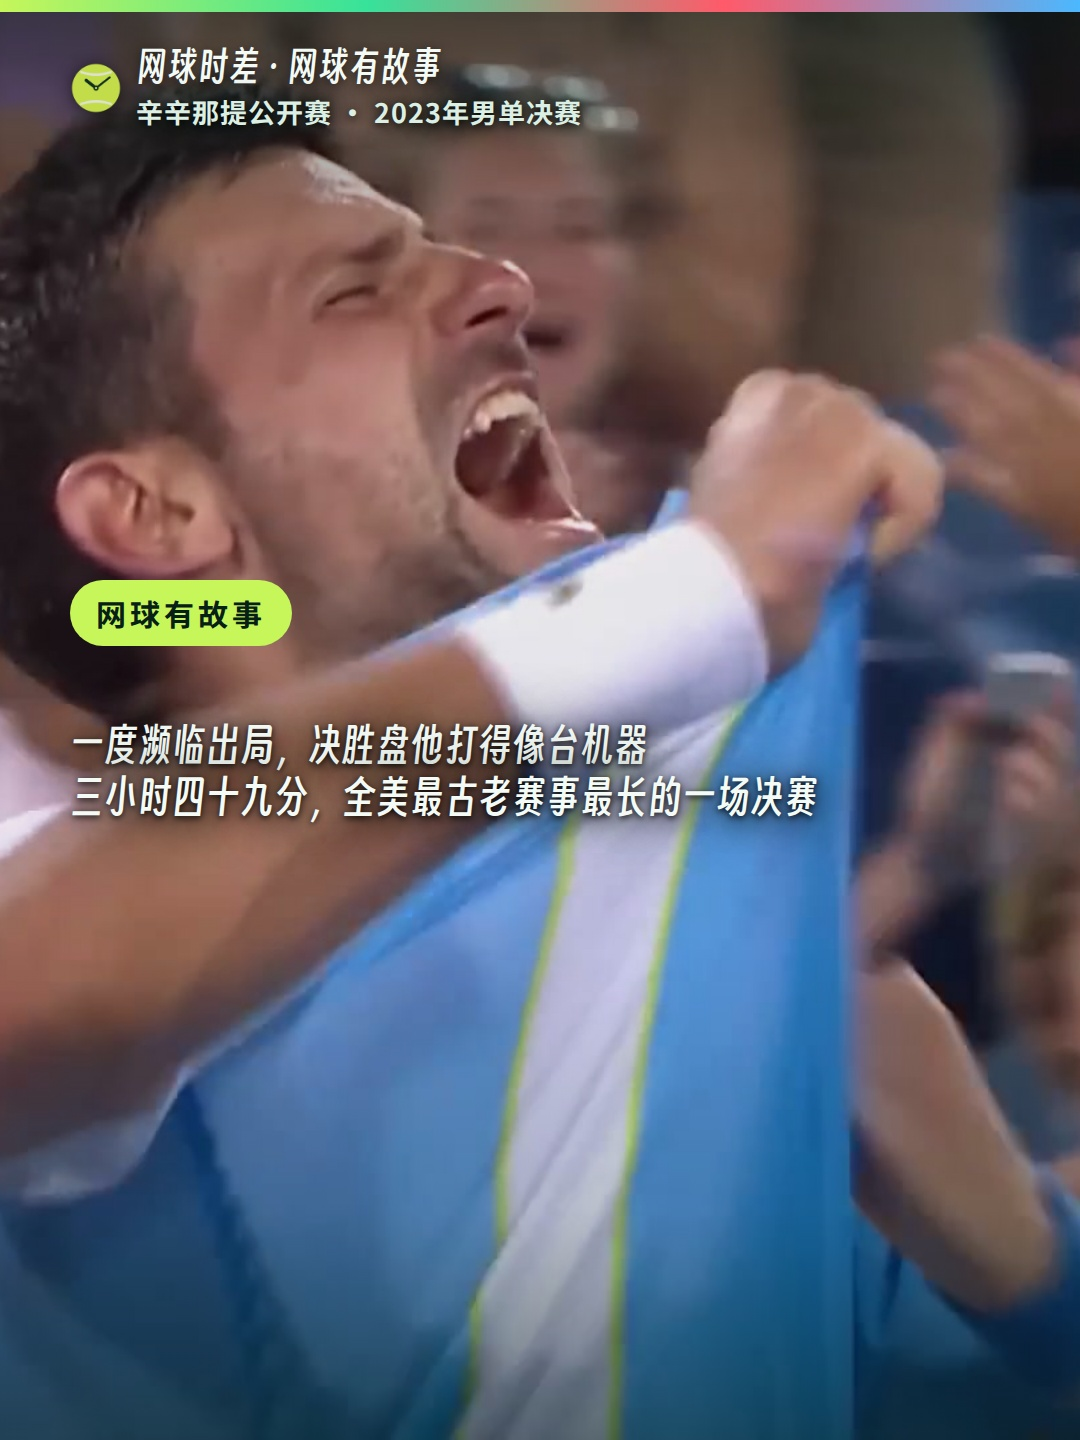
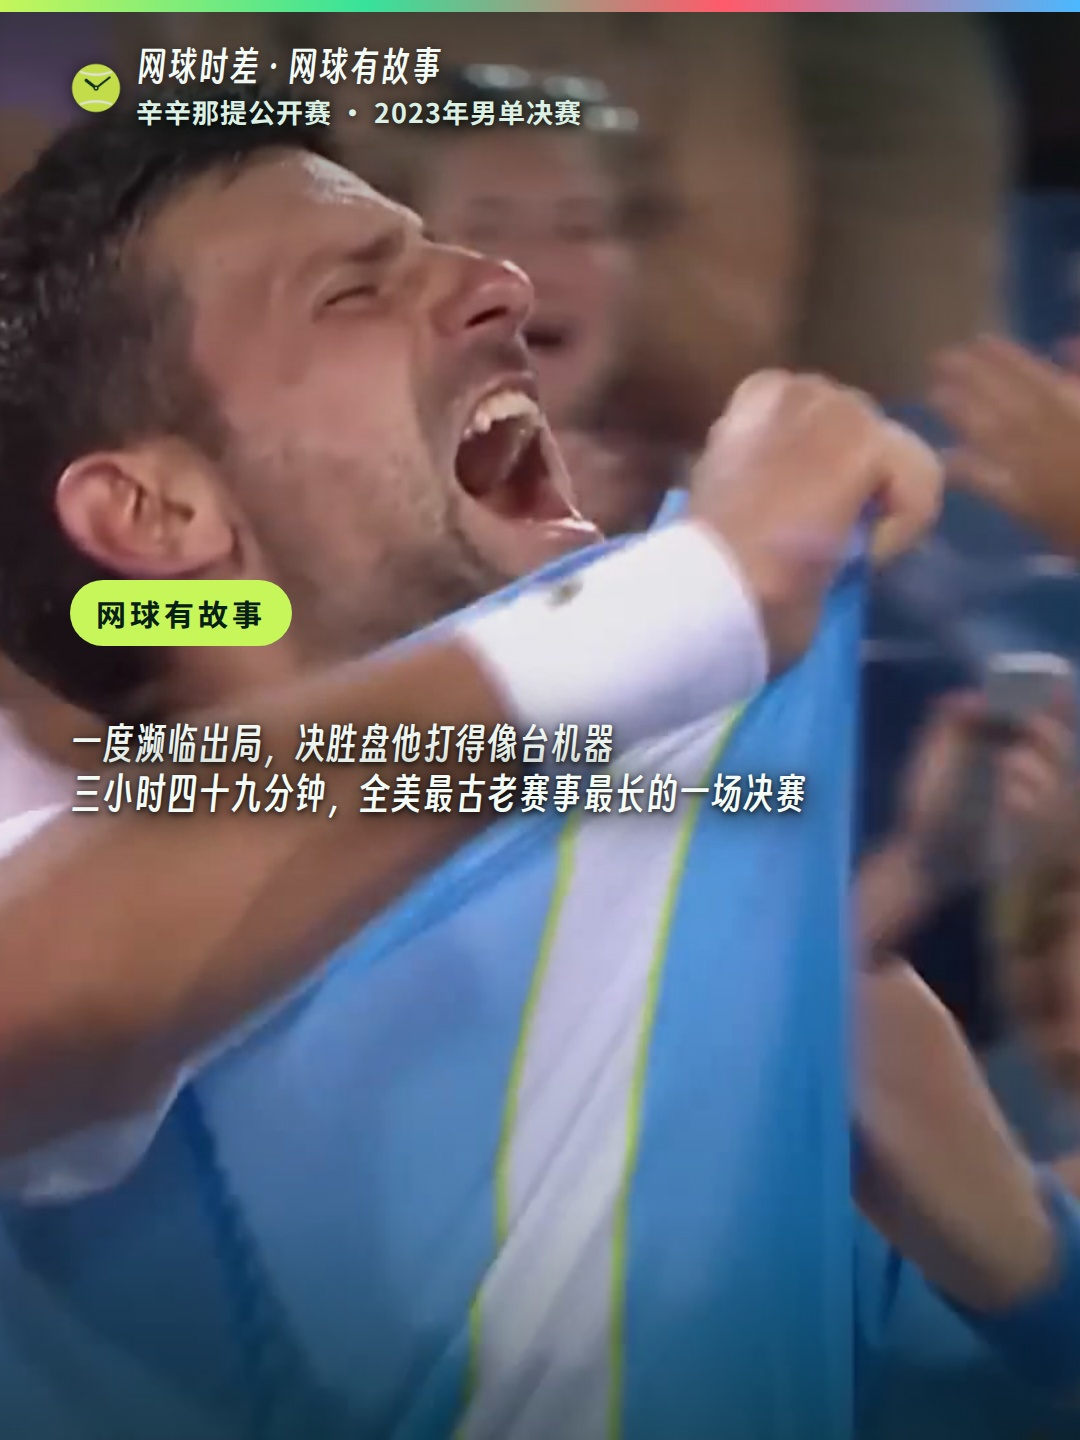
reel: render cincinnati-story

Changed region(s): [[0.0611, 0.5, 0.7639, 0.5938]]

diff --git a/output/2026-08-11/reel/cincinnati-story/copy.html b/output/2026-08-11/reel/cincinnati-story/copy.html
@@ -1,0 +1,92 @@
+<!doctype html>
+<html lang="zh-CN">
+<head>
+  <meta charset="utf-8">
+  <meta name="viewport" content="width=device-width,initial-scale=1">
+  <title>复制贴图文案</title>
+  <style>
+    :root { color-scheme: light dark; }
+    * { box-sizing: border-box; }
+    body { margin: 0; background: #f4f7f5; color: #1c2b26;
+      font-family: -apple-system, BlinkMacSystemFont, "Segoe UI", sans-serif; }
+    main { width: min(100%, 680px); margin: 0 auto; padding: 20px 16px 40px; }
+    h1 { margin: 0 0 6px; font-size: 24px; letter-spacing: 0; }
+    .sub { margin: 0 0 20px; color: #5f6f68; font-size: 14px; }
+    section { margin-top: 18px; }
+    .label { display: flex; align-items: center; justify-content: space-between;
+      gap: 12px; margin-bottom: 8px; font-weight: 700; }
+    button { border: 0; border-radius: 8px; background: #0a7d43; color: #fff;
+      min-height: 42px; padding: 0 16px; font-size: 15px; font-weight: 700; }
+    textarea { display: block; width: 100%; resize: vertical; border: 1px solid #d8e2dc;
+      border-radius: 8px; background: #fff; color: #1c2b26; padding: 12px;
+      font: 15px/1.7 -apple-system, BlinkMacSystemFont, "Segoe UI", sans-serif; }
+    #title { min-height: 76px; }
+    .alt { min-height: 52px; }
+    #body { min-height: 55vh; }
+    #comment { min-height: 118px; }
+    #toast { position: fixed; left: 50%; bottom: 22px; transform: translateX(-50%);
+      background: #10201a; color: #fff; padding: 10px 16px; border-radius: 8px;
+      opacity: 0; pointer-events: none; transition: opacity .18s ease; }
+    #toast.show { opacity: 1; }
+    @media (prefers-color-scheme: dark) {
+      body { background: #10201a; color: #e2e9e5; }
+      .sub { color: #93a39b; }
+      textarea { background: #0d1a15; color: #dfe7e3; border-color: #2a3a33; }
+      button { background: #b8e986; color: #10201a; }
+    }
+  </style>
+</head>
+<body>
+  <main>
+    <h1>贴图发布文案</h1>
+    <p class="sub">标题和正文已分开，可直接粘贴到发布页。</p>
+    <section>
+      <div class="label"><span>标题</span><button type="button" data-copy="title">复制标题</button></div>
+      <textarea id="title" readonly>8.11 网球有故事 | 辛辛那提最长决赛之一</textarea>
+    </section>
+    <section>
+      <div class="label"><span>正文</span><button type="button" data-copy="body">复制正文</button></div>
+      <textarea id="body" readonly>1899年开打的辛辛那提公开赛，是全美仍留在创办城市的最古老网球赛事，比美网搬进纽约法拉盛还早了大半个世纪。2023年男单决赛，德约科维奇对阵阿尔卡拉斯——他一度濒临出局，最终5-7 7-6 7-6逆转拿下，鏖战3小时49分钟，是ATP史上最长的三盘制决赛之一。
+
+📍辛辛那提公开赛 · Cincinnati Open（Western &amp; Southern Open）
+🏟 建赛于1899年
+🎾 2023决赛 德约科维奇 5-7 7-6 7-6 阿尔卡拉斯
+
+第一盘阿尔卡拉斯拿下，第二盘德约科维奇一度濒临出局，还是被他一次次追了回来，把比赛拖进了决胜盘。决胜盘一个赛点接一个赛点，观众席上不止一次瞪大了眼睛——他全都救了下来，最凶险的几局打得像台机器。三小时四十九分钟之后，他终于把最后一分拿下，赛后拥抱对手、披上塞尔维亚国旗仰头嘶吼。
+
+同一天（2023年8月20日），19岁的高芙6-3 6-4击败穆霍娃，拿下了自己生涯第一个WTA1000冠军——三周后美网决赛，她又一次击败了同一个对手。
+
+这座赛场建在俄亥俄州小城梅森，却是美网前最重要的风向标：冠军常常直通纽约决赛周。费德勒在这里七次夺冠，纪录至今无人接近，也是他职业生涯对阵前十胜率最高的赛事。
+
+💬 下一个在辛辛那提留下名字的，会是谁？
+
+关注 @网球时差｜把比分背后的来路讲给你听。
+
+#网球 #辛辛那提公开赛 #德约科维奇 #阿尔卡拉斯 #网球时差</textarea>
+    </section>
+    <section>
+      <div class="label"><span>置顶评论</span><button type="button" data-copy="comment">复制评论</button></div>
+      <textarea id="comment" readonly>下一个在这里留下名字的，会是谁？</textarea>
+    </section>
+  </main>
+  <div id="toast" role="status">已复制</div>
+  <script>
+    const toast = document.getElementById('toast');
+    async function copyText(id) {
+      const field = document.getElementById(id);
+      try {
+        await navigator.clipboard.writeText(field.value);
+      } catch (_) {
+        field.focus(); field.select(); document.execCommand('copy');
+      }
+      const labels = {body: '正文已复制', comment: '评论已复制'};
+      toast.textContent = labels[id] || '标题已复制';
+      toast.classList.add('show');
+      setTimeout(() => toast.classList.remove('show'), 1400);
+    }
+    document.querySelectorAll('[data-copy]').forEach((button) => {
+      button.addEventListener('click', () => copyText(button.dataset.copy));
+    });
+  </script>
+</body>
+</html>
